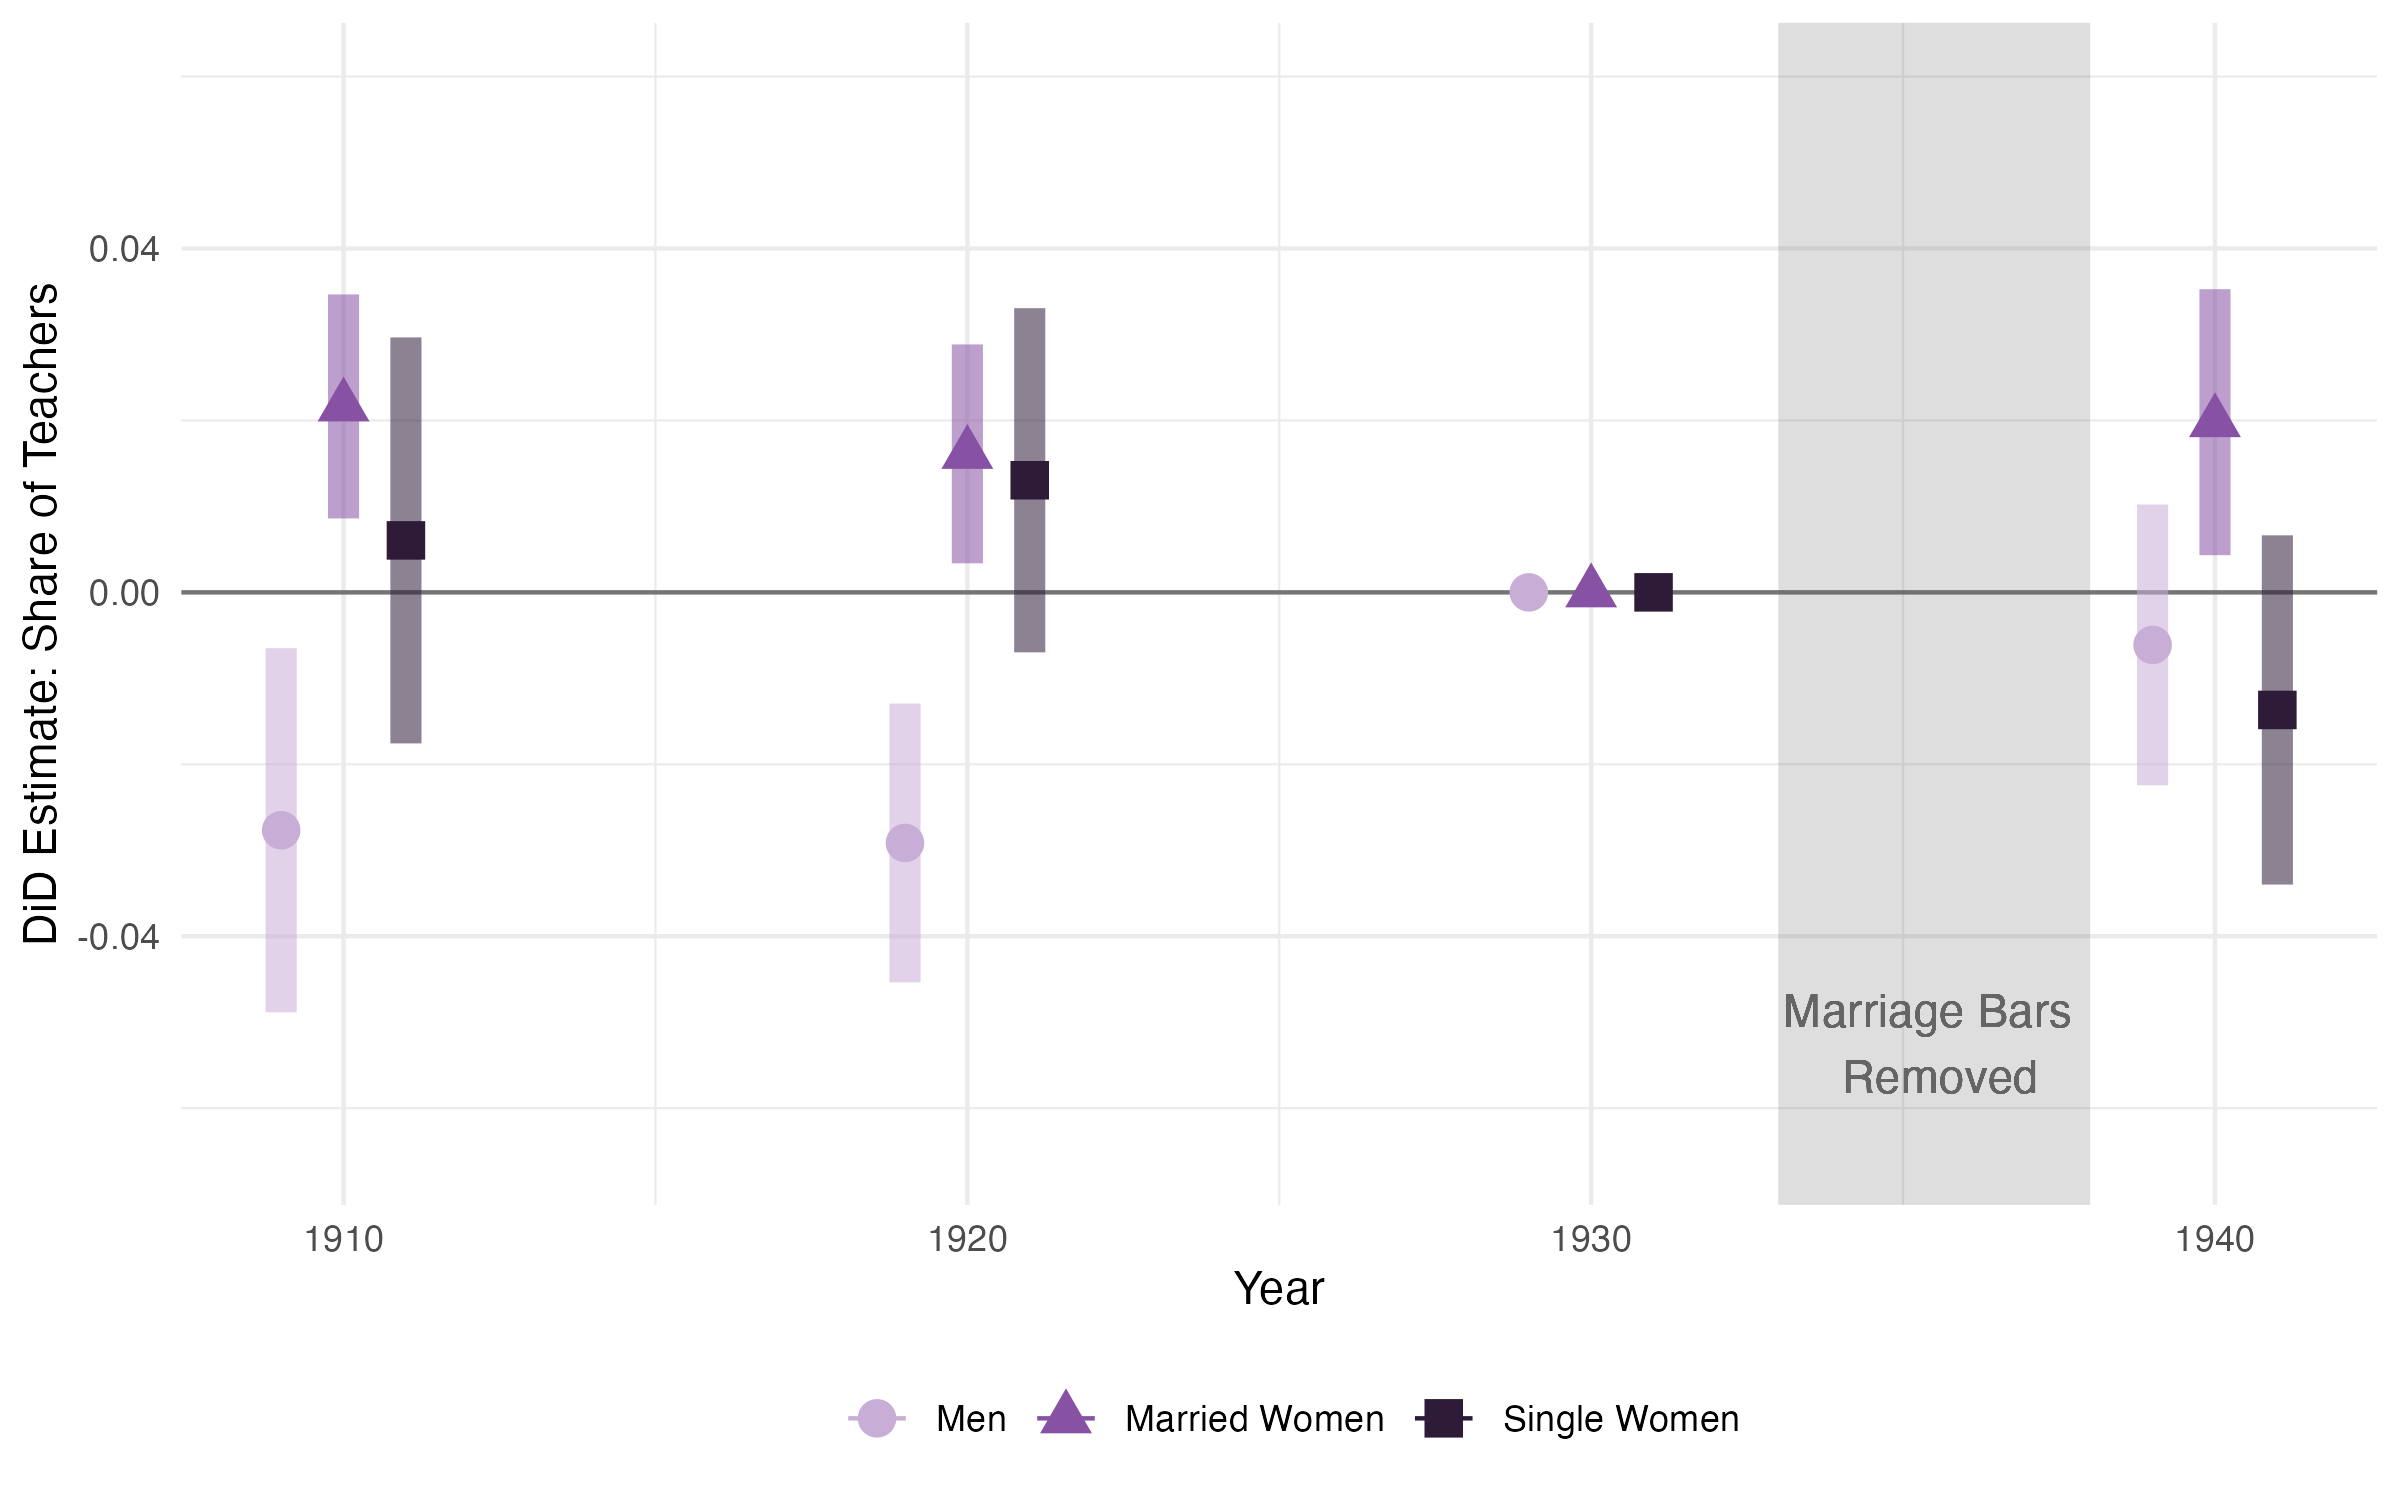
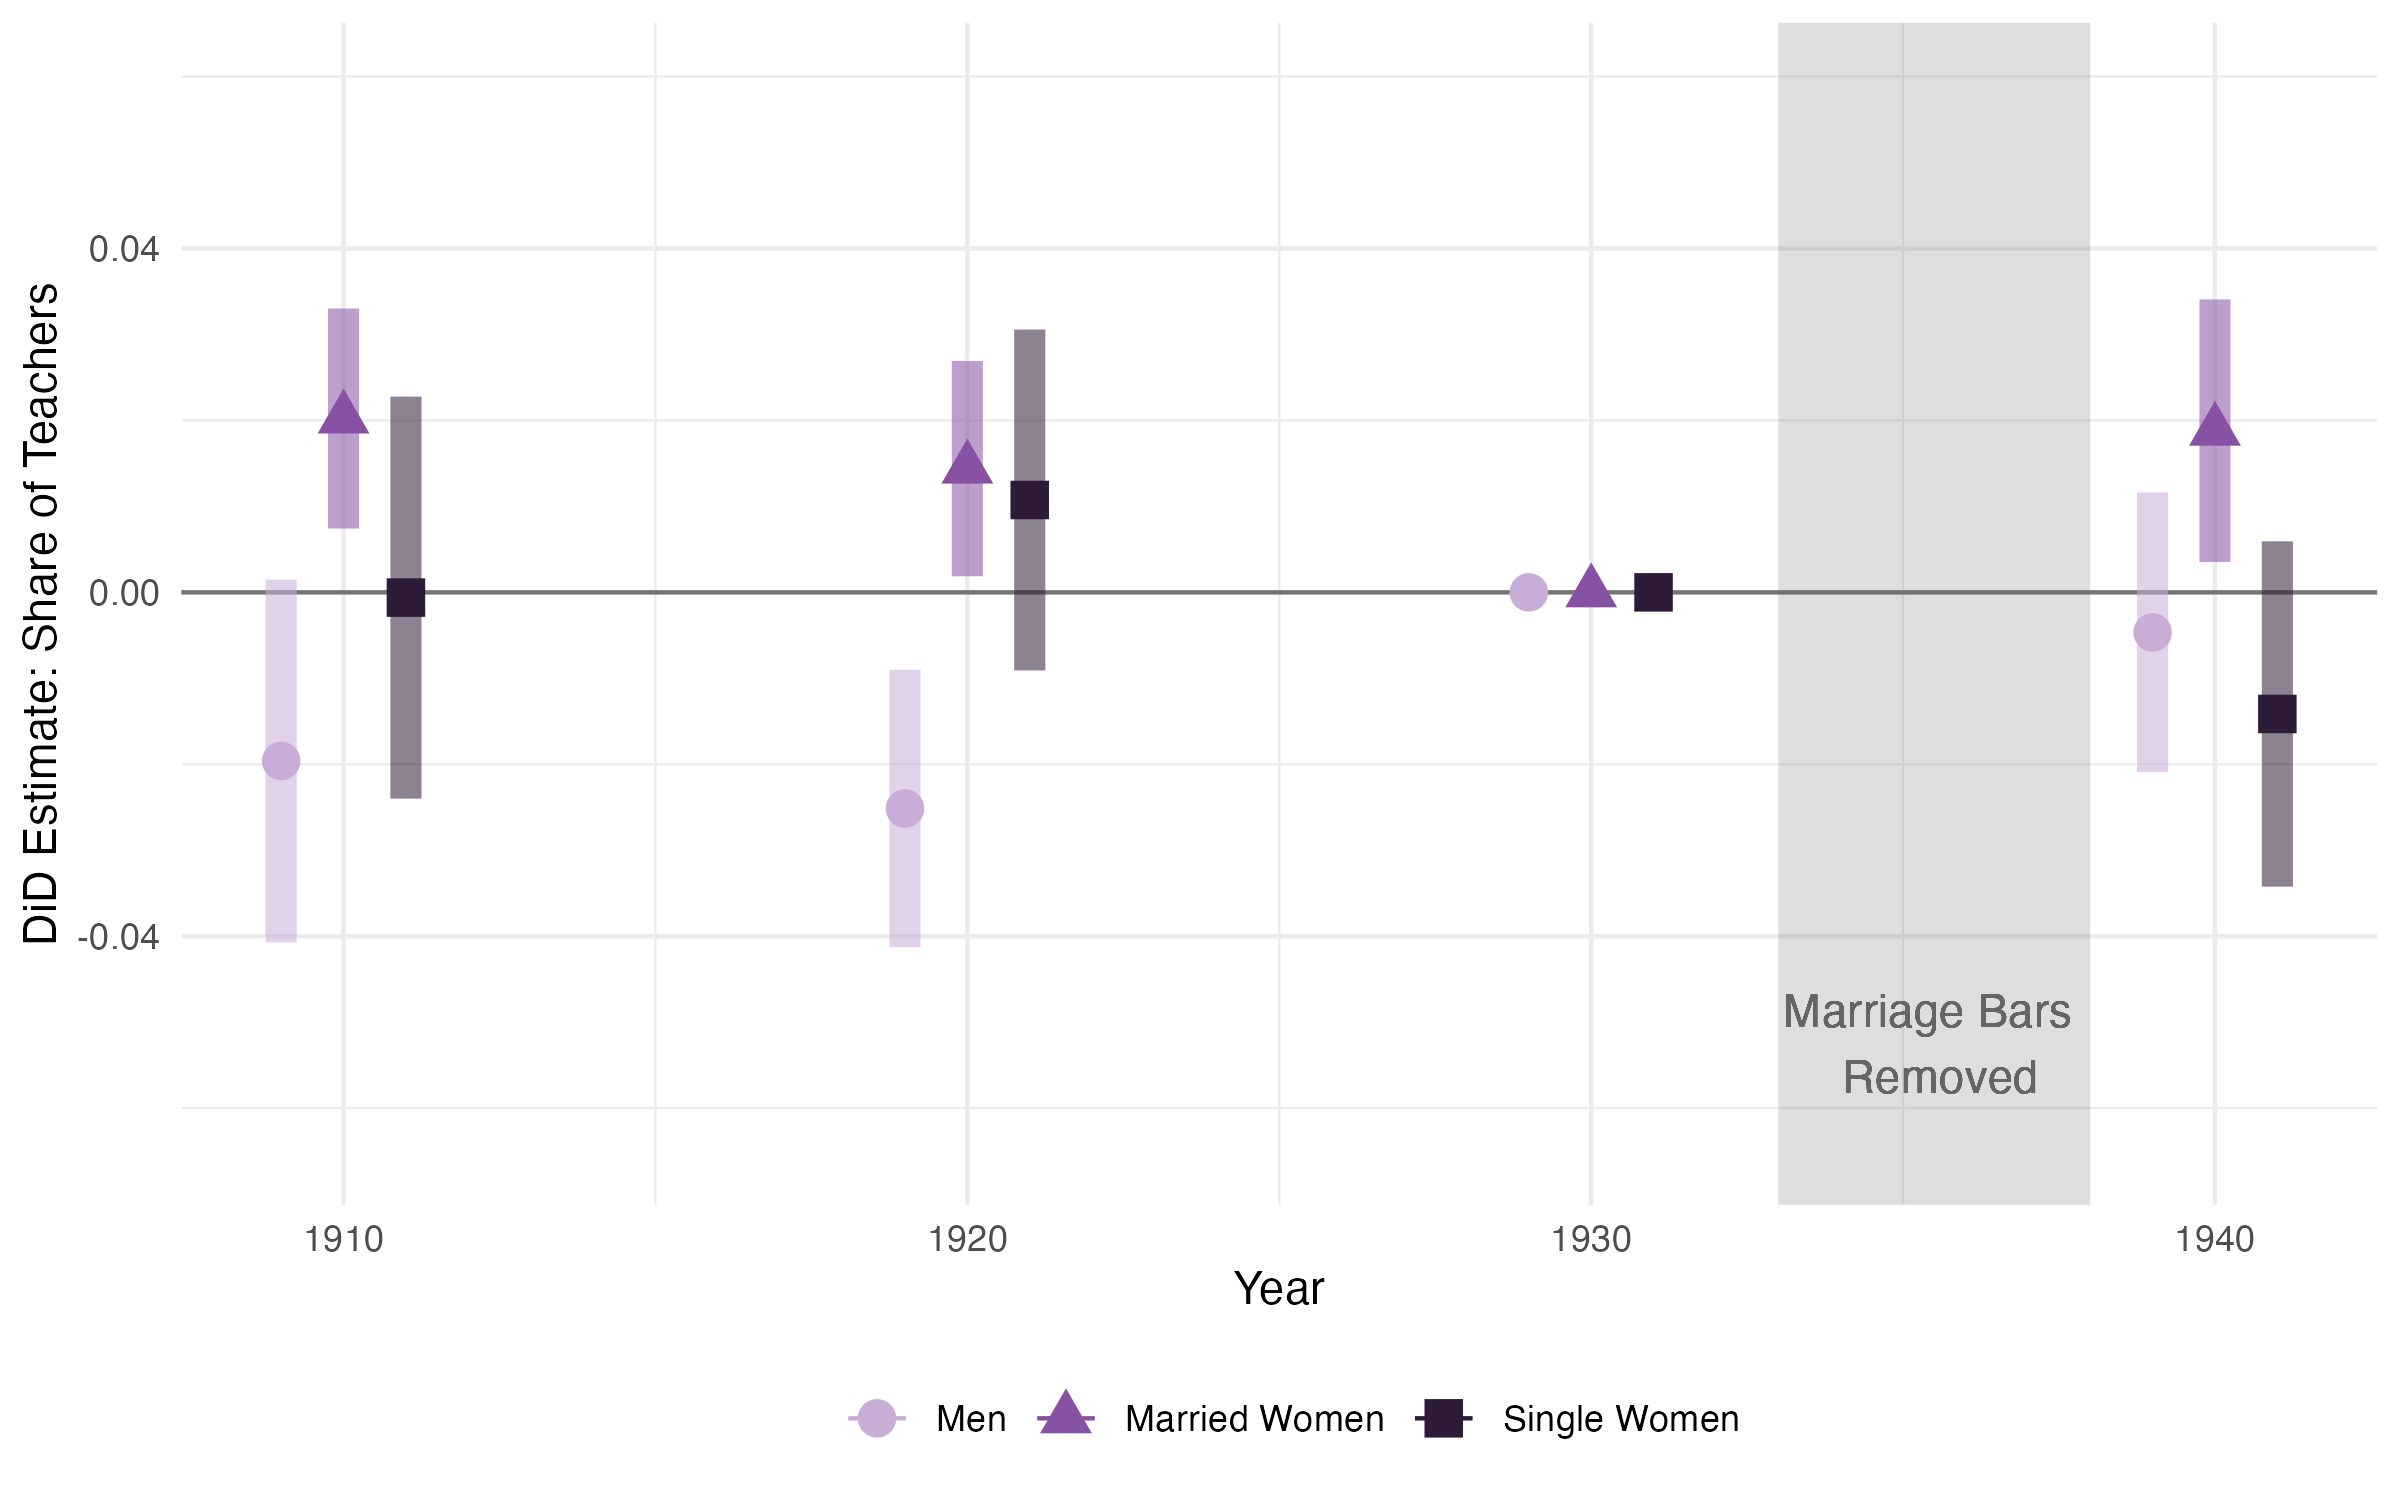
final cleanup of code
streamlining data files to load into main script directly and updating code for spouse matching

diff --git a/tables/outregs_spouse.tex b/tables/outregs_spouse.tex
@@ -1,6 +1,6 @@
 
 % Table created by stargazer v.5.2.3 by Marek Hlavac, Social Policy Institute. E-mail: marek.hlavac at gmail.com
-% Date and time: Tue, Nov 28, 2023 - 10:29:02
+% Date and time: Thu, Jan 04, 2024 - 15:04:31
 \begin{tabular}{@{\extracolsep{5pt}}lccc} 
 \\[-1.8ex]\hline 
 \hline \\[-1.8ex] 
@@ -9,13 +9,13 @@
  & Avg. Spouse OCCSCORE of Mar. Wom. Teachers & Avg. Spouse OCCSCORE of Mar. Men Teachers & Share Mar. Men Teachers w/ Teacher Spouse \\ 
 \\[-1.8ex] & (1) & (2) & (3)\\ 
 \hline \\[-1.8ex] 
- Treated $\times$ Post-Ban ($\gamma_{1940}^{DD}$) & 0.284 & 1.488$^{***}$ & 0.041$^{***}$ \\ 
-  & (0.355) & (0.423) & (0.015) \\ 
+ Treated $\times$ Post-Ban ($\gamma_{1940}^{DD}$) & 0.302 & 1.687$^{***}$ & 0.040$^{***}$ \\ 
+  & (0.459) & (0.477) & (0.009) \\ 
   & & & \\ 
 \hline \\[-1.8ex] 
-Dep. Var. 1930 Mean & 23.83 & 7.005 & 0.2307 \\ 
-Observations & 1,051 & 1,050 & 1,050 \\ 
-Adjusted R$^{2}$ & 0.464 & 0.320 & 0.305 \\ 
+Dep. Var. 1930 Mean & 24.48 & 6.165 & 0.1063 \\ 
+Observations & 1,043 & 1,046 & 1,053 \\ 
+Adjusted R$^{2}$ & 0.403 & 0.163 & 0.203 \\ 
 \hline 
 \hline \\[-1.8ex] 
 \end{tabular} 

diff --git a/tables/shareregs.tex b/tables/shareregs.tex
@@ -1,6 +1,6 @@
 
 % Table created by stargazer v.5.2.3 by Marek Hlavac, Social Policy Institute. E-mail: marek.hlavac at gmail.com
-% Date and time: Tue, Nov 28, 2023 - 16:06:58
+% Date and time: Thu, Jan 04, 2024 - 14:53:41
 \begin{tabular}{@{\extracolsep{5pt}}lcccccc} 
 \\[-1.8ex]\hline 
 \hline \\[-1.8ex] 

diff --git a/tables/linkregs_mwnt.tex b/tables/linkregs_mwnt.tex
@@ -1,6 +1,6 @@
 
 % Table created by stargazer v.5.2.3 by Marek Hlavac, Social Policy Institute. E-mail: marek.hlavac at gmail.com
-% Date and time: Tue, Nov 28, 2023 - 10:23:38
+% Date and time: Thu, Jan 04, 2024 - 14:54:26
 \begin{tabular}{@{\extracolsep{5pt}}lcccc} 
 \\[-1.8ex]\hline 
 \hline \\[-1.8ex] 

diff --git a/tables/linkregs_swnt.tex b/tables/linkregs_swnt.tex
@@ -1,6 +1,6 @@
 
 % Table created by stargazer v.5.2.3 by Marek Hlavac, Social Policy Institute. E-mail: marek.hlavac at gmail.com
-% Date and time: Tue, Nov 28, 2023 - 10:23:09
+% Date and time: Thu, Jan 04, 2024 - 14:54:23
 \begin{tabular}{@{\extracolsep{5pt}}lcccc} 
 \\[-1.8ex]\hline 
 \hline \\[-1.8ex] 

diff --git a/tables/linkregs_swt.tex b/tables/linkregs_swt.tex
@@ -1,6 +1,6 @@
 
 % Table created by stargazer v.5.2.3 by Marek Hlavac, Social Policy Institute. E-mail: marek.hlavac at gmail.com
-% Date and time: Tue, Nov 28, 2023 - 10:21:53
+% Date and time: Thu, Jan 04, 2024 - 14:54:20
 \begin{tabular}{@{\extracolsep{5pt}}lcccc} 
 \\[-1.8ex]\hline 
 \hline \\[-1.8ex] 
